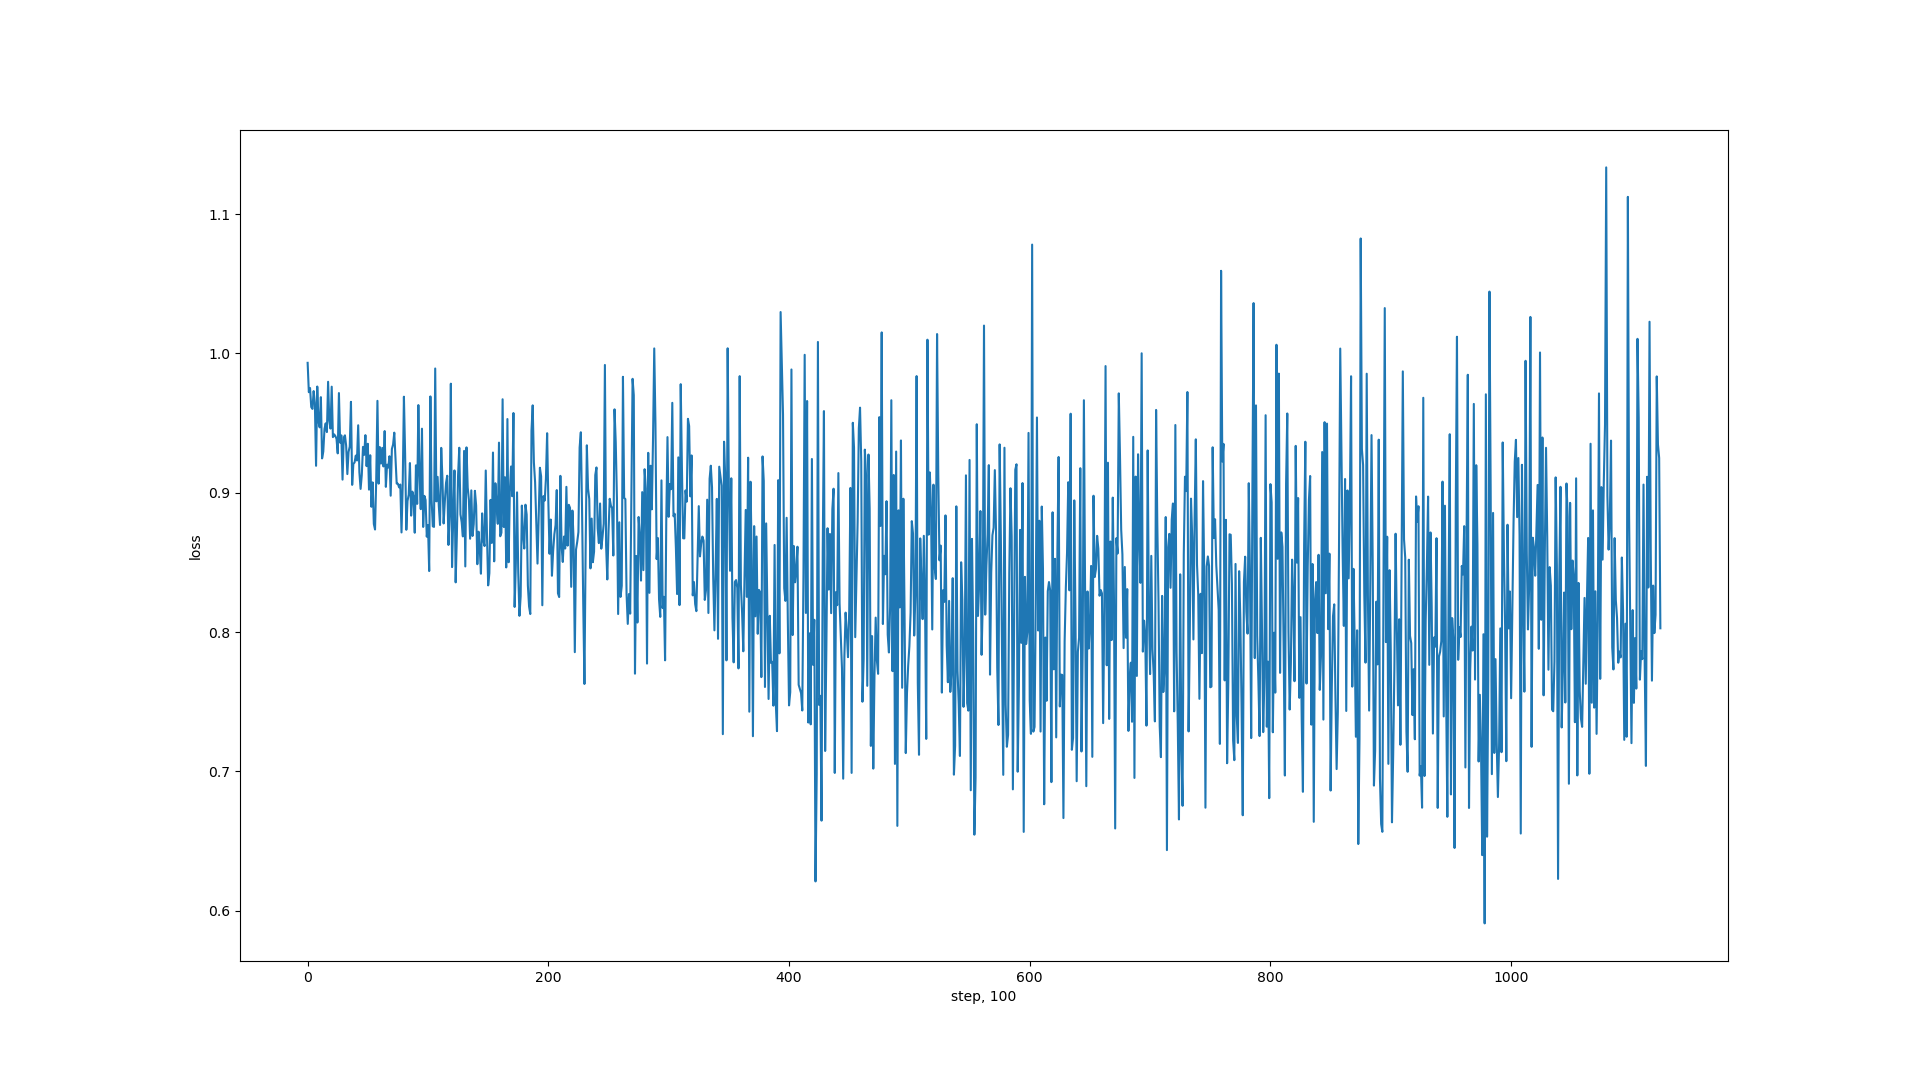
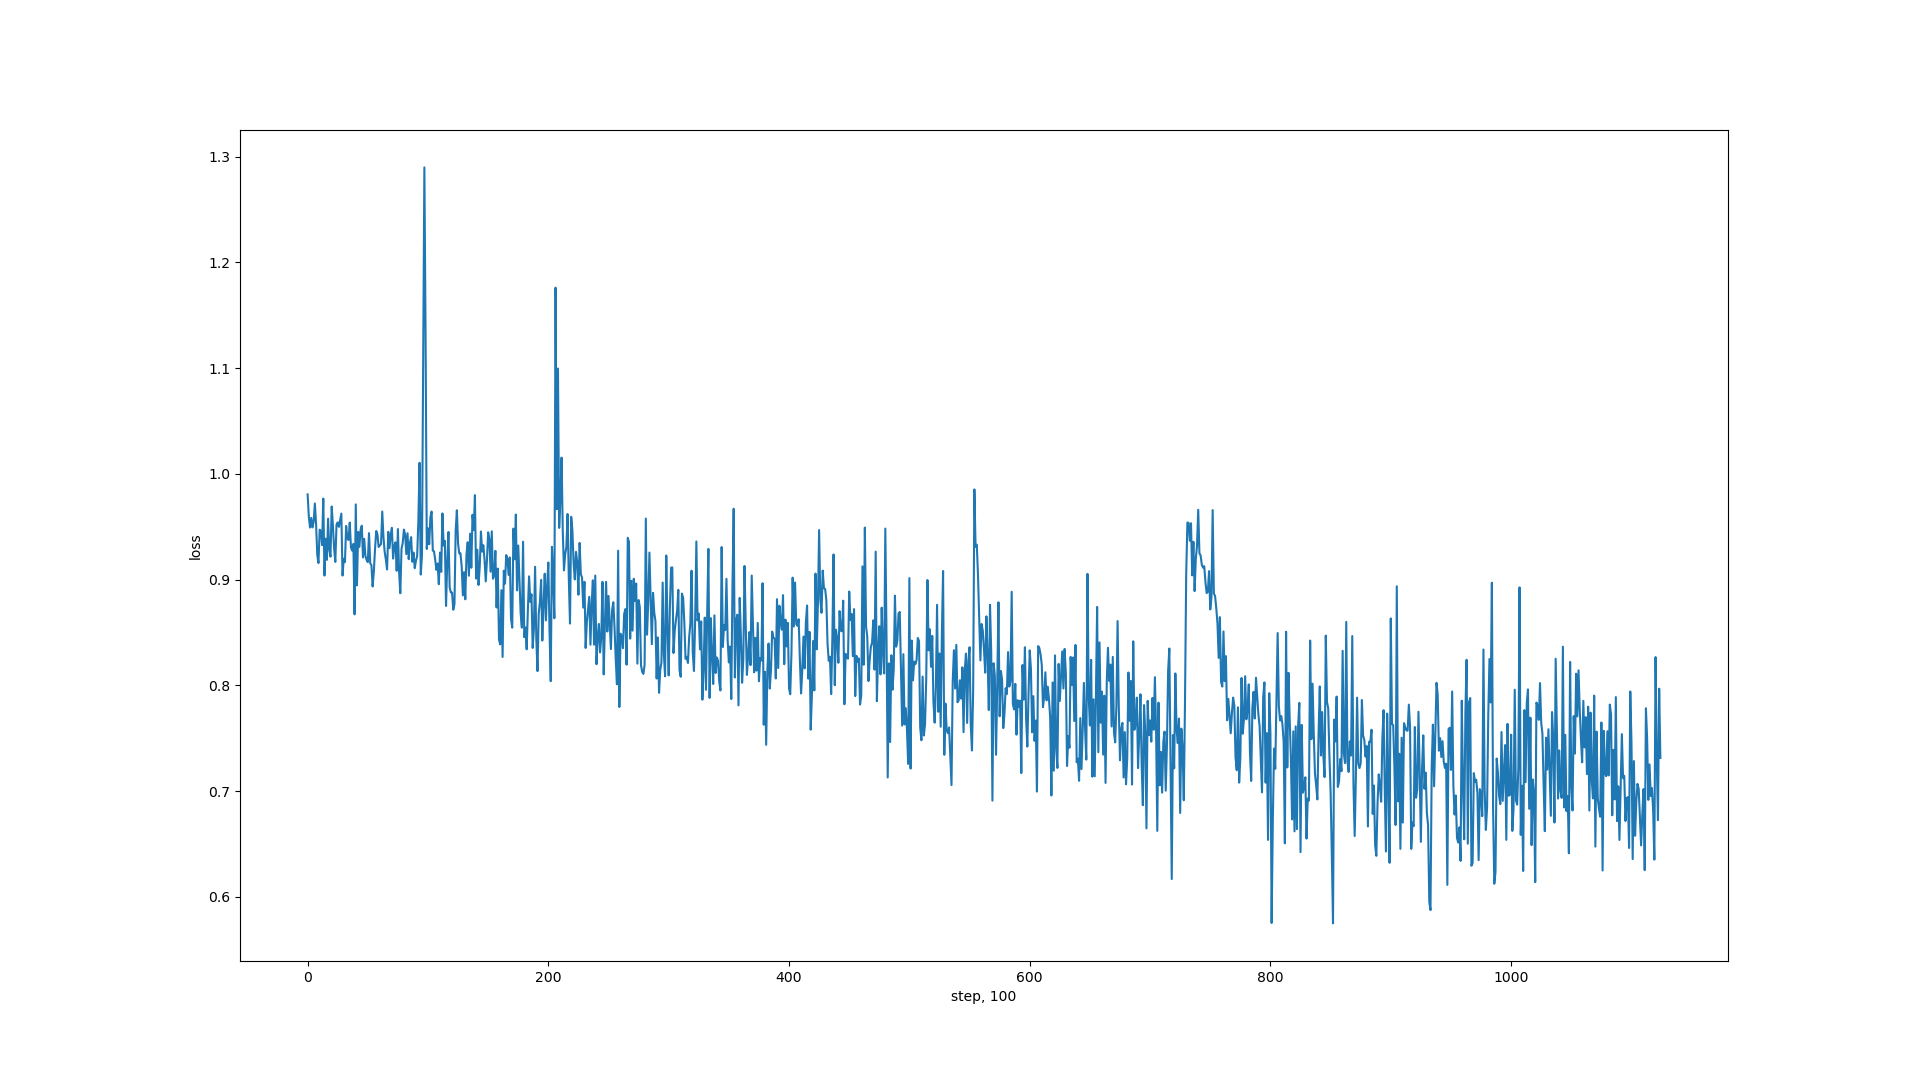
RNNs: 0.87 on the curriculum dataset (0.73 on L20)

Changed region(s): [[0.1562, 0.3056, 0.875, 0.825], [0.0938, 0.825, 0.125, 0.8556]]

diff --git a/recurrent.py b/recurrent.py
@@ -1,0 +1,90 @@
+import sys
+import numpy as np
+import torch, torch.nn as nn, torch.nn.functional as F
+from tqdm import tqdm, trange
+import matplotlib.pyplot as plt
+
+class Dataset(nn.Module):
+  def __init__(self, filename, split):
+    self.l = open(filename).readlines()
+    self.l, n = self.l[:-1], int(self.l[-1])
+    assert len(self.l) == n
+    n = 1_000_000
+    if split == 'train':
+      self.l = self.l[:9 * n // 10]
+    elif split == 'test':
+      self.l == self.l[9 * n // 10:]
+    else:
+      assert False
+    self.l = sorted(self.l, key=len)
+  def __getitem__(self, i):
+    s, t = self.l[i].split()
+    return torch.tensor(np.vectorize(ord)(np.array(list(s))) - ord('a') + 1, dtype=torch.long), \
+           torch.tensor(np.vectorize(ord)(np.array(list(t))) - ord('a') + 1, dtype=torch.long)
+  def __len__(self):
+    return len(self.l)
+
+filename = sys.argv[1]
+train_dataset = Dataset(filename, split='train')
+test_dataset = Dataset(filename, split='test')
+
+def collate_fn(batch):
+  L = max(max(t.shape[-1], s.shape[-1]) for t, s in batch)
+  batch = (torch.stack([F.pad(t, (L - t.shape[-1], 0)) for t, s in batch]),
+           torch.stack([F.pad(s, (L - s.shape[-1], 0)) for t, s in batch]))
+  return batch
+
+batch_size = 8
+train_dataloader = torch.utils.data.DataLoader(train_dataset, batch_size, collate_fn=collate_fn, shuffle=True, pin_memory=True)
+test_dataloader = torch.utils.data.DataLoader(test_dataset, batch_size, collate_fn=collate_fn, shuffle=True, pin_memory=True)
+
+n_letters = 7 + 1  # blank
+
+class Model(nn.Module):
+  def __init__(self, num_layers, embedding_dim):
+    super().__init__()
+    self.num_layers = num_layers
+    self.embedder = nn.Embedding(num_embeddings=n_letters, embedding_dim=embedding_dim)
+    self.rnn = nn.RNN(input_size=embedding_dim, hidden_size=embedding_dim, num_layers=num_layers, batch_first=True)
+    self.post_rnn = nn.Sequential(
+      nn.Linear(in_features=num_layers*embedding_dim, out_features=embedding_dim),
+      nn.ReLU(),
+      nn.Linear(in_features=embedding_dim, out_features=1),
+    )
+  def forward(self, x):
+    x = self.embedder(x)
+    B, L, H = x.shape
+    x, h = self.rnn(x)
+    h = h.transpose(0, 1).reshape(B, self.num_layers * H)
+    return self.post_rnn(h)
+
+device = 'cuda'
+H = Model(num_layers=3, embedding_dim=2048).to(device)  # if it's energy, why don't we call it "H"?))
+optimizer = torch.optim.Adam(H.parameters(), lr=1e-4)
+#scheduler = torch.optim.lr_scheduler.ExponentialLR(optimizer, gamma=1-5/len(train_dataloader))  # e^5 ~= 150
+scheduler = None  #torch.optim.lr_scheduler.LinearLR(optimizer, 1, 0, total_iters=len(train_dataloader))
+
+losses = []
+for s, t in tqdm(train_dataloader):
+  s, t = s.to(device), t.to(device)
+  E_s, E_t = H(s), H(t)
+  if np.random.randint(10000) == 0:
+    print(f'{E_s=}, {E_t=}')
+  loss = F.relu(E_t + 1 - E_s).mean()
+  optimizer.zero_grad()
+  loss.backward()
+  optimizer.step()
+  losses.append(loss.item())
+  if scheduler is not None:
+    scheduler.step()
+losses = np.array(losses)
+print('Loss:', losses[-100:].mean())
+
+k = len(losses) // 100 * 100
+losses = losses[:k].reshape(k // 100, 100).mean(-1)
+
+plt.figure(figsize=(19.2, 10.8))
+plt.plot(losses)
+plt.xlabel('step, 100')
+plt.ylabel('loss')
+plt.savefig('loss.png')
